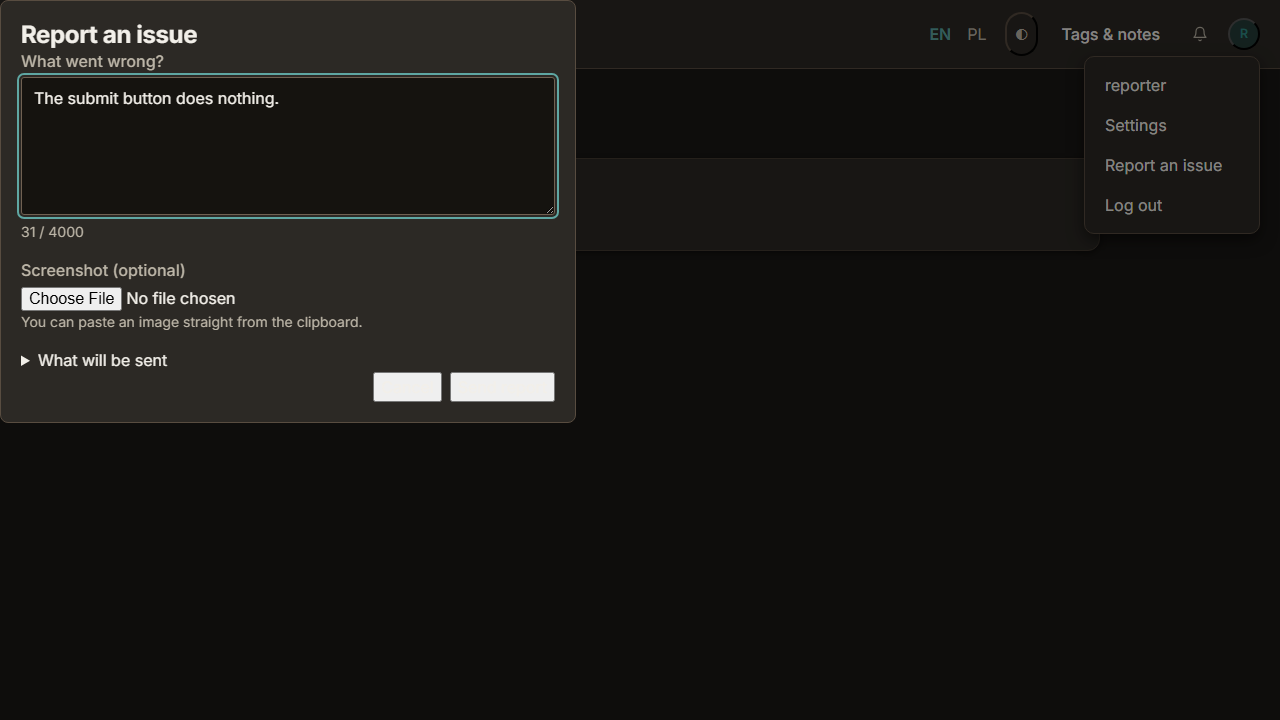
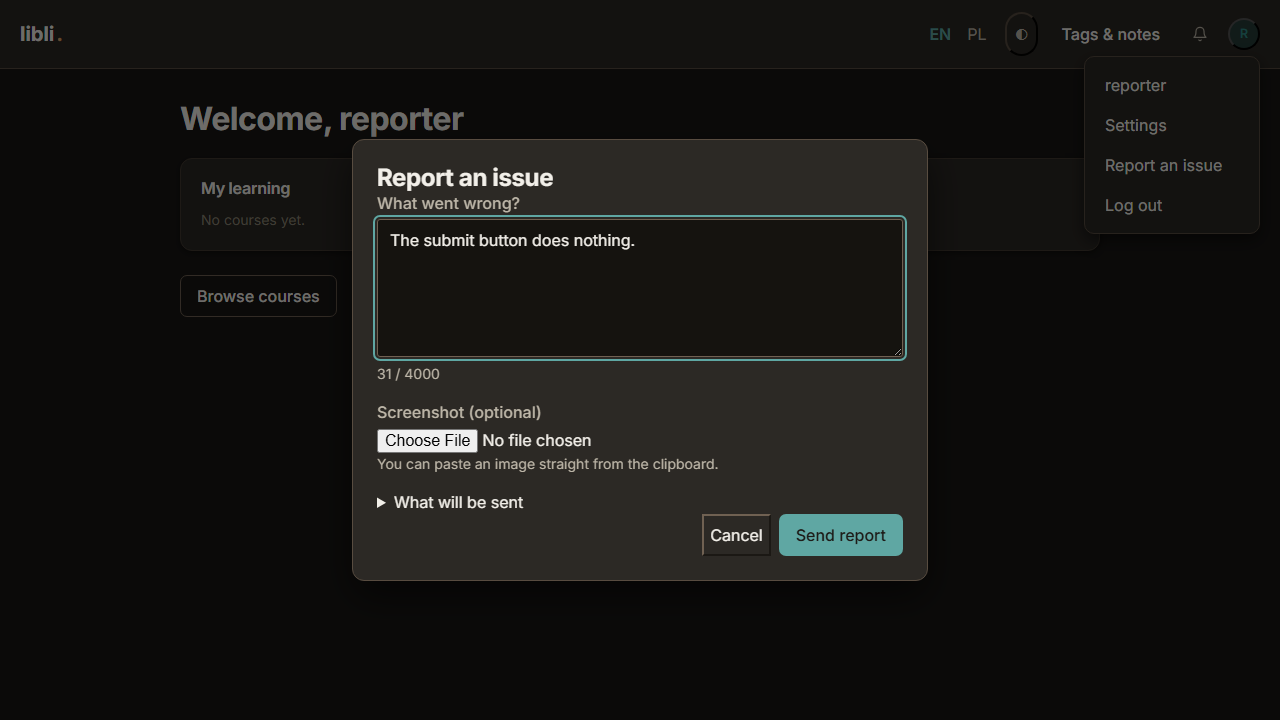
style(support): visual design pass over the dialog, settings and triage views
Fix the two Task 10 defects: dark-theme button labels invisible on bare
<button> elements (now use .btn / .btn--ghost), and the report dialog not
centring because reset.css's `* { margin: 0 }` overrides showModal()'s UA
`margin: auto`. Align the dialog's CSS to tokens (--radius-lg, --shadow-lg,
--surface-overlay, --space-* spacing). Style the previously-unstyled triage
list/detail and settings tab surfaces using existing components only
(.filter-row, .ledger, .pagination, .settings__*, .report-meta), mirroring
established patterns from people.css/builder.css — no new CSS framework or
decorative elements added.

Changed region(s): [[0.0, 0.0, 0.75, 0.825]]

diff --git a/support/static/support/css/support.css b/support/static/support/css/support.css
@@ -7,12 +7,17 @@ label:has([data-out-of-roster]) { color: var(--text-secondary); }
   background: var(--surface-raised);
   color: var(--text-primary);
   border: 1px solid var(--border-default);
-  border-radius: 8px;
-  padding: 1.25rem;
+  border-radius: var(--radius-lg);
+  box-shadow: var(--shadow-lg);
+  padding: var(--space-6);
   max-width: min(36rem, calc(100vw - 2rem));
   width: 100%;
+  /* reset.css's `* { margin: 0; }` overrides the UA `margin: auto` that
+     showModal() relies on to centre a <dialog> in the top layer — without this
+     the dialog pins to the top-left in both themes. */
+  margin: auto;
 }
-.report-dialog::backdrop { background: rgb(0 0 0 / 0.45); }
+.report-dialog::backdrop { background: var(--surface-overlay); }
 .report-dialog textarea { width: 100%; }
 .report-dialog__counter { color: var(--text-secondary); font-size: 0.875rem; }
 .report-dialog__error { color: var(--danger); }
@@ -21,4 +26,60 @@ label:has([data-out-of-roster]) { color: var(--text-secondary); }
   padding: 0.5rem 0.75rem;
 }
 .report-dialog__hint { color: var(--text-secondary); font-size: 0.875rem; }
-.report-dialog__actions { display: flex; gap: 0.5rem; justify-content: flex-end; }
+.report-dialog__actions { display: flex; gap: var(--space-2); justify-content: flex-end; }
+
+/* ── Triage list (report_list.html) ──────────────────────────────────────── */
+
+/* Status filter tabs. Mirrors .manage__tabs / .settings__tabs — an underline
+   row keyed on aria-current rather than an "is-on" class, since the view
+   already expresses the active filter that way. */
+.filter-row {
+  display: flex;
+  gap: var(--space-2);
+  margin-bottom: var(--space-5);
+  border-bottom: 1px solid var(--border-subtle);
+}
+.filter-row a {
+  padding: var(--space-2) var(--space-3);
+  color: var(--text-secondary);
+  text-decoration: none;
+  border-bottom: 2px solid transparent;
+  margin-bottom: -1px;
+}
+.filter-row a:hover { color: var(--text-primary); }
+.filter-row a[aria-current="true"] {
+  color: var(--text-primary);
+  border-bottom-color: var(--primary);
+  font-weight: 600;
+}
+
+/* Report ledger table. Mirrors .people-table (accounts/css/people.css). */
+.ledger { width: 100%; border-collapse: collapse; font-variant-numeric: tabular-nums; }
+.ledger th, .ledger td {
+  text-align: left;
+  padding: var(--space-2) var(--space-3);
+  border-bottom: 1px solid var(--border-subtle);
+}
+.ledger th {
+  font-size: .78rem; font-weight: 600; text-transform: uppercase;
+  letter-spacing: .04em; color: var(--text-secondary);
+}
+.ledger tbody tr:hover { background: var(--surface-sunken); }
+
+/* Pagination nav. Mirrors .pagination in accounts/css/people.css. */
+.pagination { display: flex; gap: var(--space-3); align-items: center;
+  margin-top: var(--space-4); flex-wrap: wrap; }
+.pagination__status { color: var(--text-secondary); font-size: .875rem; }
+
+/* ── Report detail (report_detail.html) ──────────────────────────────────── */
+
+/* Key/value metadata list. Mirrors .unit-summary (courses/css/builder.css). */
+.report-meta {
+  display: grid;
+  grid-template-columns: auto 1fr;
+  gap: var(--space-1) var(--space-3);
+  align-items: baseline;
+  margin-bottom: var(--space-5);
+}
+.report-meta dt { color: var(--text-tertiary); font-size: .8rem; }
+.report-meta dd { margin: 0; color: var(--text-primary); }

diff --git a/templates/institution/manage/_support_tab.html b/templates/institution/manage/_support_tab.html
@@ -1,28 +1,44 @@
 {% load i18n %}
-<form method="post" action="{% url 'institution:settings_support' %}">
+<form class="settings__form" method="post" action="{% url 'institution:settings_support' %}">
   {% csrf_token %}
-  <fieldset>
-    <legend>{% trans "Who can report an issue" %}</legend>
-    {{ support.audience }}
-    {{ support.audience.errors }}
-  </fieldset>
 
-  {% comment %}The spec requires this line to NAME the Platform Admins who will be
-  mailed automatically, so "who gets this" is never a guess — a generic sentence
-  does not satisfy it.{% endcomment %}
-  <p class="field-note">
-    {% blocktrans with names=auto_recipients|join:", " %}Platform Admins can always report, and always receive reports: {{ names }}{% endblocktrans %}
-  </p>
+  <div class="settings__section">
+    <div class="settings__field">
+      {% comment %}Reuses the fieldset.checkbox-list border/legend treatment
+      institution/settings.css already defines for the uploads tab's chip
+      pickers — a plain radio group needs the same box, not a new rule.{% endcomment %}
+      <fieldset class="checkbox-list">
+        <legend class="settings__section-title">{% trans "Who can report an issue" %}</legend>
+        {{ support.audience }}
+      </fieldset>
+      {{ support.audience.errors }}
+    </div>
+    {% comment %}The spec requires this line to NAME the Platform Admins who will be
+    mailed automatically, so "who gets this" is never a guess — a generic sentence
+    does not satisfy it.{% endcomment %}
+    <p class="settings__help">
+      {% blocktrans with names=auto_recipients|join:", " %}Platform Admins can always report, and always receive reports: {{ names }}{% endblocktrans %}
+    </p>
+  </div>
 
-  <label for="{{ support.extra_emails.id_for_label }}">{{ support.extra_emails.label }}</label>
-  {{ support.extra_emails }}
-  <p class="field-note field-note--warning">{{ support.extra_emails.help_text }}</p>
-  {{ support.extra_emails.errors }}
+  <div class="settings__section">
+    <h2 class="settings__section-title">{% trans "Additional recipients" %}</h2>
+    <div class="settings__field">
+      <label class="settings__label" for="{{ support.extra_emails.id_for_label }}">{{ support.extra_emails.label }}</label>
+      {{ support.extra_emails }}
+      {{ support.extra_emails.errors }}
+    </div>
+    <p class="alert alert--warning">{{ support.extra_emails.help_text }}</p>
+  </div>
 
-  <p>
-    {% blocktrans count counter=extra_reporter_count %}{{ counter }} other person is also allowed.{% plural %}{{ counter }} other people are also allowed.{% endblocktrans %}
-    <a href="{% url 'support:reporters' %}">{% trans "Manage" %}</a>
-  </p>
+  <div class="settings__section">
+    <p>
+      {% blocktrans count counter=extra_reporter_count %}{{ counter }} other person is also allowed.{% plural %}{{ counter }} other people are also allowed.{% endblocktrans %}
+      <a href="{% url 'support:reporters' %}">{% trans "Manage" %}</a>
+    </p>
+  </div>
 
-  <button type="submit">{% trans "Save" %}</button>
+  <div class="settings__actions">
+    <button class="btn" type="submit">{% trans "Save" %}</button>
+  </div>
 </form>

diff --git a/support/templates/support/manage/report_list.html b/support/templates/support/manage/report_list.html
@@ -1,6 +1,7 @@
 {% extends "base.html" %}
-{% load i18n %}
+{% load i18n static %}
 {% block head_title %}{% trans "Issue reports" %}{% endblock %}
+{% block extra_css %}<link rel="stylesheet" href="{% static 'support/css/support.css' %}">{% endblock %}
 {% block content %}
 <h1>{% trans "Issue reports" %}</h1>
 <nav class="filter-row" aria-label="{% trans 'Filter by status' %}">
@@ -34,8 +35,9 @@
       <td>{{ report.description|truncatechars:80 }}</td>
       <td>{% if report.screenshot %}{% trans "Yes" %}{% endif %}</td>
       <td>
-        {{ report.get_status_display }}
-        {% if not report.emailed_at %} — {% trans "not emailed" %}{% endif %}
+        {% if report.status == "open" %}<span class="badge badge--open">{{ report.get_status_display }}</span>
+        {% else %}{{ report.get_status_display }}{% endif %}
+        {% if not report.emailed_at %} <span class="muted">— {% trans "not emailed" %}</span>{% endif %}
       </td>
     </tr>
   {% empty %}
@@ -50,11 +52,11 @@ active ?status= must ride along or paging silently resets the filter.{% endcomme
 {% if page_obj.has_other_pages %}
 <nav class="pagination" aria-label="{% trans 'Pagination' %}">
   {% if page_obj.has_previous %}
-    <a href="?status={{ status }}&amp;page={{ page_obj.previous_page_number }}">{% trans "Previous" %}</a>
+    <a class="btn btn--ghost btn--small" href="?status={{ status }}&amp;page={{ page_obj.previous_page_number }}">{% trans "Previous" %}</a>
   {% endif %}
-  <span>{% blocktrans with n=page_obj.number total=page_obj.paginator.num_pages %}Page {{ n }} of {{ total }}{% endblocktrans %}</span>
+  <span class="pagination__status">{% blocktrans with n=page_obj.number total=page_obj.paginator.num_pages %}Page {{ n }} of {{ total }}{% endblocktrans %}</span>
   {% if page_obj.has_next %}
-    <a href="?status={{ status }}&amp;page={{ page_obj.next_page_number }}">{% trans "Next" %}</a>
+    <a class="btn btn--ghost btn--small" href="?status={{ status }}&amp;page={{ page_obj.next_page_number }}">{% trans "Next" %}</a>
   {% endif %}
 </nav>
 {% endif %}

diff --git a/support/templates/support/manage/report_detail.html b/support/templates/support/manage/report_detail.html
@@ -1,6 +1,7 @@
 {% extends "base.html" %}
 {% load i18n static %}
 {% block head_title %}{% trans "Issue report" %}{% endblock %}
+{% block extra_css %}<link rel="stylesheet" href="{% static 'support/css/support.css' %}">{% endblock %}
 {% block content %}
 <h1>{% trans "Issue report" %} #{{ report.pk }}</h1>
 
@@ -10,7 +11,7 @@
   </p>
 {% endif %}
 
-<dl>
+<dl class="report-meta">
   <dt>{% trans "Reported by" %}</dt>
   <dd>{{ report.reporter_label }}{% if roles %} ({{ roles|join:", " }}){% endif %}</dd>
   <dt>{% trans "Page" %}</dt>
@@ -36,14 +37,15 @@
 </a>
 {% endif %}
 
+<div class="row-actions">
 <form method="post" action="{% url 'support:report_set_status' report.pk %}">
   {% csrf_token %}
   {% if report.status == "open" %}
     <input type="hidden" name="status" value="resolved">
-    <button type="submit">{% trans "Mark resolved" %}</button>
+    <button class="btn" type="submit">{% trans "Mark resolved" %}</button>
   {% else %}
     <input type="hidden" name="status" value="open">
-    <button type="submit">{% trans "Reopen" %}</button>
+    <button class="btn" type="submit">{% trans "Reopen" %}</button>
   {% endif %}
 </form>
 
@@ -61,8 +63,9 @@ confirmation".{% endcomment %}
       data-confirm="{% trans 'Delete this report and its screenshot?' %}">
   {% csrf_token %}
   <input type="hidden" name="status" value="{{ status }}">
-  <button type="submit" class="btn--danger">{% trans "Delete" %}</button>
+  <button type="submit" class="btn btn--danger">{% trans "Delete" %}</button>
 </form>
+</div>
 {% endblock %}
 {% block extra_js %}
 <script src="{% static 'support/js/confirm.js' %}" defer></script>

diff --git a/support/templates/support/manage/reporters.html b/support/templates/support/manage/reporters.html
@@ -25,8 +25,8 @@ the attribute and the note text, not the colour.{% endcomment %}
     <div class="checkbox-list" data-roster-list>{{ form.extra_reporters }}</div>
   </fieldset>
   {{ form.extra_reporters.errors }}
-  <button type="submit">{% trans "Save" %}</button>
-  <a href="{% url 'institution:settings' %}?tab=support">{% trans "Cancel" %}</a>
+  <button class="btn" type="submit">{% trans "Save" %}</button>
+  <a class="btn btn--ghost" href="{% url 'institution:settings' %}?tab=support">{% trans "Cancel" %}</a>
 </form>
 {% endblock %}
 {% block extra_js %}

diff --git a/support/templates/support/_report_dialog.html b/support/templates/support/_report_dialog.html
@@ -56,8 +56,8 @@
     </details>
 
     <div class="report-dialog__actions">
-      <button type="button" data-report-cancel>{% trans "Cancel" %}</button>
-      <button type="submit">{% trans "Send report" %}</button>
+      <button type="button" class="btn--ghost" data-report-cancel>{% trans "Cancel" %}</button>
+      <button type="submit" class="btn">{% trans "Send report" %}</button>
     </div>
   </form>
 </dialog>
